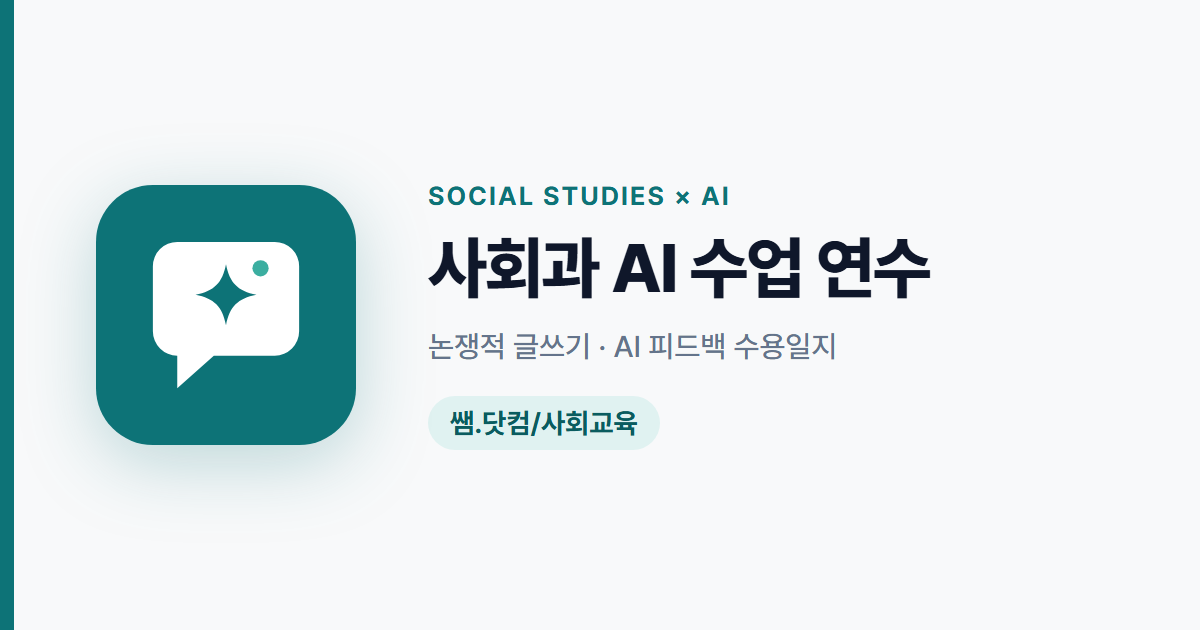
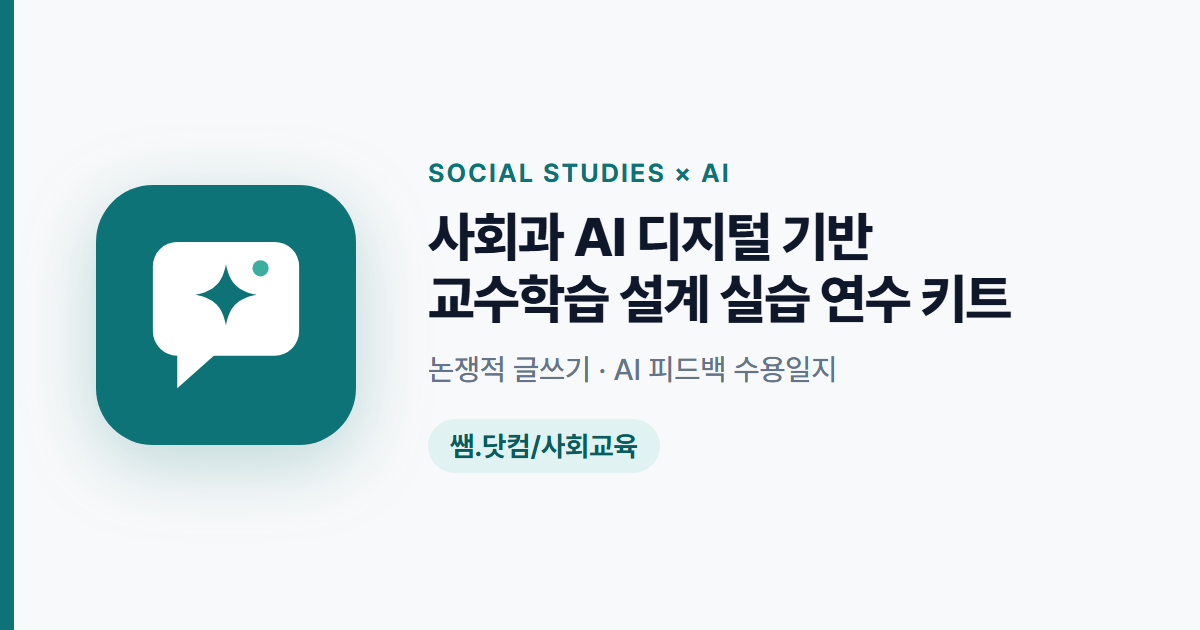
Rename course title across hero, topbar, page title, and OG image

Changed region(s): [[0.3392, 0.2413, 0.8633, 0.6032], [0.37, 0.6333, 0.555, 0.7238]]

diff --git a/index.html b/index.html
@@ -3,16 +3,16 @@
 <head>
   <meta charset="utf-8">
   <meta name="viewport" content="width=device-width, initial-scale=1.0">
-  <title>사회과 AI 수업 연수 | 논쟁적 글쓰기 · 피드백 수용일지</title>
+  <title>사회과 AI 디지털 기반 교수학습 설계 실습 연수 키트</title>
   <meta name="description" content="사회과 교사를 위한 실습형 연수: 브리스크티칭 기반 논쟁적 글쓰기 수업과 AI 피드백 수용일지 템플릿 만들기">
-  <meta property="og:title" content="사회과 AI 수업 연수">
+  <meta property="og:title" content="사회과 AI 디지털 기반 교수학습 설계 실습 연수 키트">
   <meta property="og:description" content="브리스크티칭 기반 논쟁적 글쓰기 수업 · AI 피드백 수용일지 템플릿 만들기">
   <meta property="og:type" content="website">
   <meta property="og:url" content="https://byeongjunpark.github.io/socialpd/">
   <meta property="og:image" content="https://byeongjunpark.github.io/socialpd/og.png">
   <meta property="og:image:width" content="1200">
   <meta property="og:image:height" content="630">
-  <meta property="og:image:alt" content="사회과 AI 수업 연수 · 쌤.닷컴/사회교육">
+  <meta property="og:image:alt" content="사회과 AI 디지털 기반 교수학습 설계 실습 연수 키트 · 쌤.닷컴/사회교육">
   <meta name="twitter:card" content="summary_large_image">
   <meta name="twitter:image" content="https://byeongjunpark.github.io/socialpd/og.png">
   <meta name="theme-color" content="#0D7377">
@@ -410,7 +410,7 @@
     <button class="menu-toggle" id="menu-toggle" aria-label="메뉴 열기">
       <svg width="24" height="24" viewBox="0 0 24 24" fill="none" stroke="currentColor" stroke-width="2" stroke-linecap="round"><line x1="3" y1="6" x2="21" y2="6"/><line x1="3" y1="12" x2="21" y2="12"/><line x1="3" y1="18" x2="21" y2="18"/></svg>
     </button>
-    <div class="topbar-title"><img src="icon.svg" alt="" width="26" height="26"><span>사회과 AI 수업 연수</span></div>
+    <div class="topbar-title"><img src="icon.svg" alt="" width="26" height="26"><span>사회과 AI 디지털 기반 교수학습 설계 실습 연수 키트</span></div>
     <div class="topbar-progress" title="실습 진행률">
       <div class="progress-bar"><div class="progress-fill" id="progress-fill"></div></div>
       <span class="progress-text" id="progress-text">0 / 0</span>
@@ -457,7 +457,7 @@
           <button class="hero-url-copy" type="button" data-copy="쌤.닷컴/사회교육">📋 주소 복사</button>
         </div>
         <div class="eyebrow">SOCIAL STUDIES × AI · 교사 연수</div>
-        <h1>AI와 함께하는<br>사회과 논쟁 수업 실습</h1>
+        <h1>사회과 AI 디지털 기반<br>교수학습 설계 실습 연수 키트</h1>
         <p>브리스크티칭으로 논쟁적 글쓰기 수업을 설계하고, AI의 논박을 학생이 스스로 판단해 받아들이는 피드백 수용일지 수업을 만들어 봅니다. 각 단계를 마치면 <b>완료</b>를 눌러 진행 상황을 기록하세요.</p>
         <div class="presenter">
           <span class="presenter-avatar">박</span>
